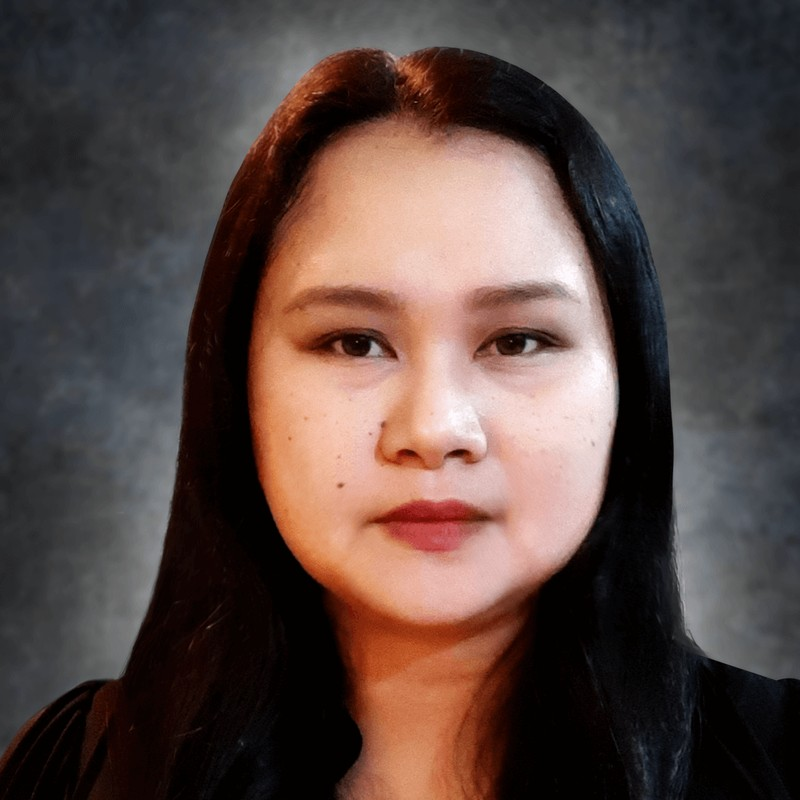
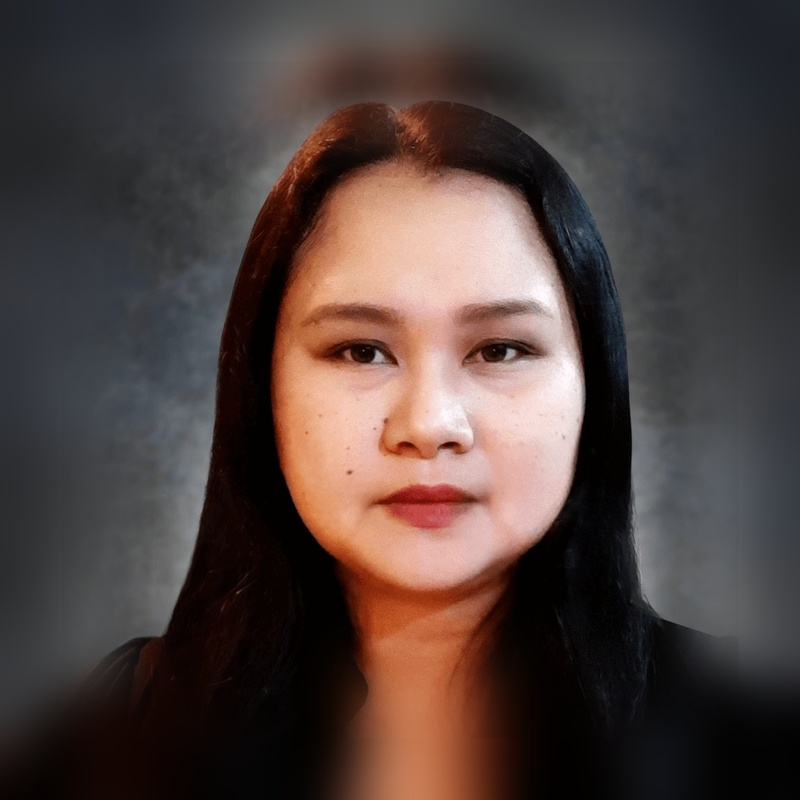
Update Team section: Shelly's title, Olivia's title/bio, and photo crop
Shelly Barson -> Creative Director. Olivia Briones -> Operations &
Project Manager, with an updated bio. Also adjusted Olivia's headshot,
which was cropped much tighter than the rest of the team (face nearly
edge-to-edge), by extending it with a blended backdrop and re-centering
so the framing/headroom now matches Ateeq's and the others'.

diff --git a/src/app/about/page.tsx b/src/app/about/page.tsx
@@ -75,7 +75,7 @@ const TEAM = [
   },
   {
     name: "Shelly Barson",
-    title: "Design Manager",
+    title: "Creative Director",
     photo: "/images/team/shelly.jpg",
     bio: "Shelly is passionate about simple, smart design that tells a compelling story. A seasoned art director, she's worked on projects ranging from small startups to global brands like Intel, Vivint, and Microsoft.",
   },
@@ -87,9 +87,9 @@ const TEAM = [
   },
   {
     name: "Olivia Briones",
-    title: "Operations & Growth Strategy Manager",
+    title: "Operations & Project Manager",
     photo: "/images/team/olivia.jpg",
-    bio: "With 14+ years in operations and digital marketing, Olivia turns complex ideas into structured, scalable growth systems. She leads initiatives across branding, go-to-market strategy, AI visibility, and SEO.",
+    bio: "With more than 16 years of experience in operations, project management, and digital marketing, Olivia Briones is an Operations & Project Manager who thrives on bringing order to complexity. Combining expertise in branding, AI visibility, go-to-market strategy, SEO, and operational systems, she helps transform strategy into execution. Her focus is building efficient processes, aligning teams, and creating scalable marketing systems that drive sustainable business growth.",
   },
   {
     name: "Ateeq Asif",
